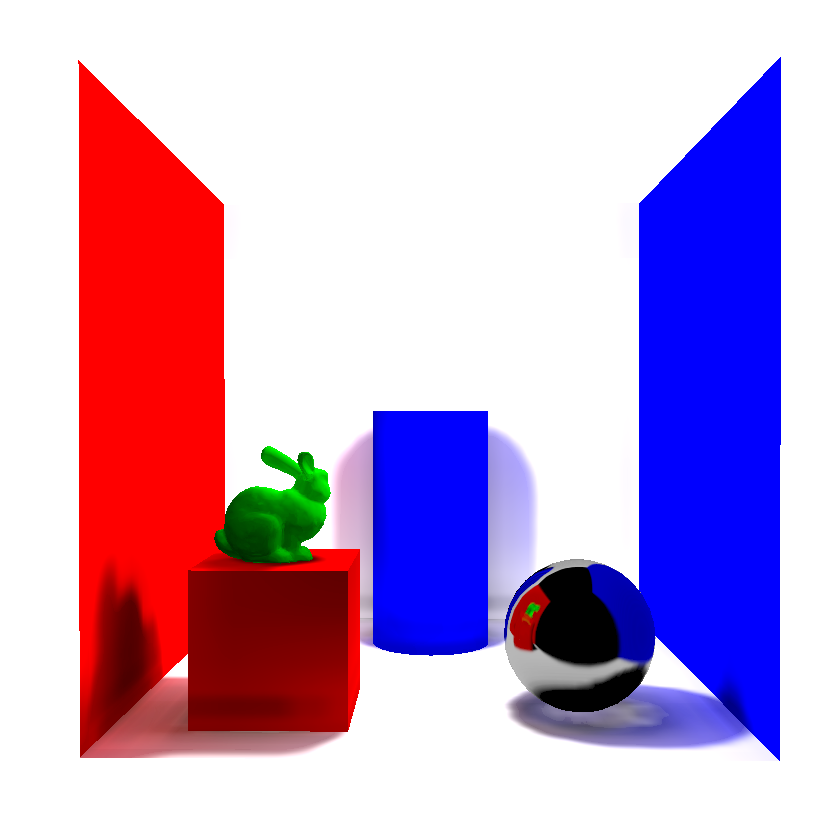
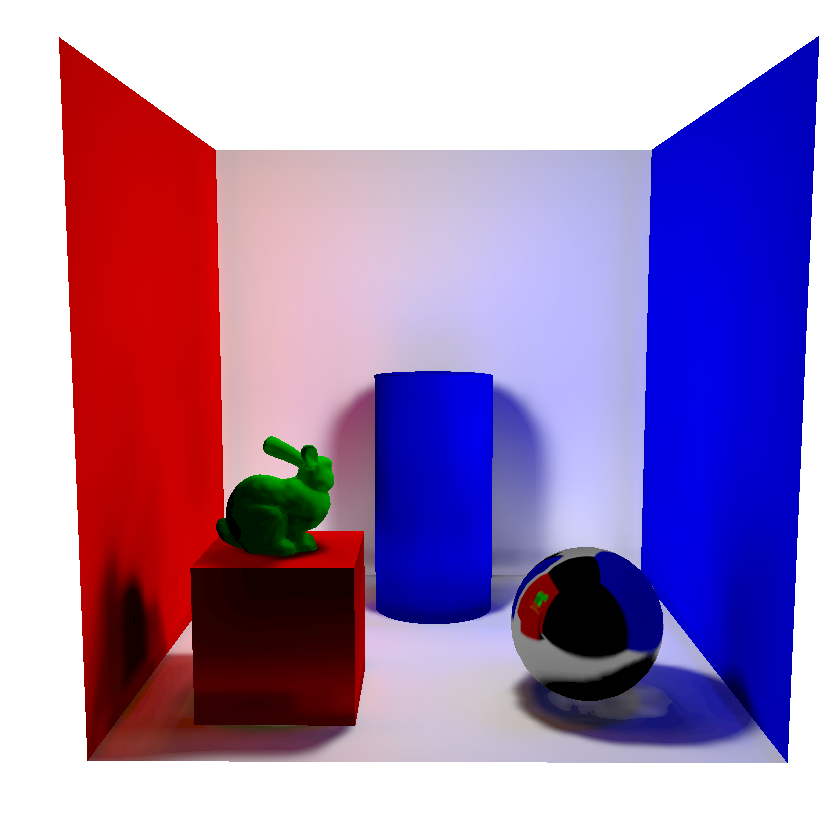
Add light intensity into the calculations

diff --git a/crates/core/src/octree/lighting/stages/photons_to_irradiance.rs b/crates/core/src/octree/lighting/stages/photons_to_irradiance.rs
@@ -1,12 +1,8 @@
 use c_str_macro::c_str;
 use cgmath::vec3;
-use gl::types::GLuint;
 use engine::prelude::*;
 
-use crate::{
-    config::Config,
-    octree::OctreeTextures,
-};
+use crate::config::Config;
 
 pub struct PhotonsToIrradiance {
     directional_shader: Shader,
@@ -16,33 +12,40 @@ pub struct PhotonsToIrradiance {
 impl PhotonsToIrradiance {
     pub fn init() -> Self {
         Self {
-            directional_shader: compile_compute!("assets/shaders/octree/photonsToIrradianceDirectional.comp.glsl"),
-            point_shader: compile_compute!("assets/shaders/octree/photonsToIrradiancePoint.comp.glsl"),
+            directional_shader: compile_compute!(
+                "assets/shaders/octree/photonsToIrradianceDirectional.comp.glsl"
+            ),
+            point_shader: compile_compute!(
+                "assets/shaders/octree/photonsToIrradiancePoint.comp.glsl"
+            ),
         }
     }
 }
 
-pub struct PhotonsToIrradianceInput {
+pub struct PhotonsToIrradianceInput<'a> {
     pub node_pool: BufferTexture,
     pub brick_pool_colors_last_level: Texture3D,
     pub brick_pool_photons: Texture3D,
     pub brick_pool_irradiance_last_level: Texture3D,
     pub light_view_map: Texture2D,
-    pub is_directional: bool,
+    pub light: &'a Light,
 }
 
 impl ShaderPass for PhotonsToIrradiance {
-    type Input<'a> = PhotonsToIrradianceInput;
+    type Input<'a> = PhotonsToIrradianceInput<'a>;
 
     unsafe fn run(&self, input: Self::Input<'_>) {
-        let shader = if input.is_directional { self.directional_shader } else { self.point_shader };
+        let shader = if input.light.is_directional() {
+            self.directional_shader
+        } else {
+            self.point_shader
+        };
         let config = Config::instance();
 
         shader.use_program();
-        shader
-            .set_uint(c_str!("voxelDimension"), config.voxel_dimension());
-        shader
-            .set_uint(c_str!("octreeLevel"), config.last_octree_level());
+        shader.set_uint(c_str!("voxelDimension"), config.voxel_dimension());
+        shader.set_uint(c_str!("octreeLevel"), config.last_octree_level());
+        shader.set_float(c_str!("lightIntensity"), input.light.intensity());
         gl::ActiveTexture(gl::TEXTURE0);
         gl::BindTexture(gl::TEXTURE_3D, input.brick_pool_colors_last_level);
         shader.set_int(c_str!("brickPoolColors"), 0);
@@ -50,7 +53,7 @@ impl ShaderPass for PhotonsToIrradiance {
         gl::BindTexture(gl::TEXTURE_3D, input.brick_pool_photons);
         shader.set_int(c_str!("brickPoolPhotons"), 1);
         gl::ActiveTexture(gl::TEXTURE2);
-        if input.is_directional {
+        if input.light.is_directional() {
             gl::BindTexture(gl::TEXTURE_2D, input.light_view_map);
         } else {
             gl::BindTexture(gl::TEXTURE_2D_ARRAY, input.light_view_map);
@@ -65,7 +68,7 @@ impl ShaderPass for PhotonsToIrradiance {
         helpers::bind_image_texture(1, input.node_pool.0, gl::READ_ONLY, gl::R32UI);
 
         let (viewport_width, viewport_height) = config.viewport_dimensions();
-        let local_group_size = if input.is_directional { 32 } else { 12 };
+        let local_group_size = if input.light.is_directional() { 32 } else { 12 };
         shader.dispatch_xyz(vec3(
             (viewport_width as f32 / local_group_size as f32).ceil() as u32,
             (viewport_height as f32 / local_group_size as f32).ceil() as u32,
@@ -78,8 +81,8 @@ impl ShaderPass for PhotonsToIrradiance {
 #[cfg(test)]
 mod tests {
     use super::*;
-    use std::path::PathBuf;
     use std::env;
+    use std::path::PathBuf;
 
     #[test]
     fn it_works() {

diff --git a/crates/core/src/octree/lighting/mod.rs b/crates/core/src/octree/lighting/mod.rs
@@ -1,17 +1,9 @@
-use c_str_macro::c_str;
-use cgmath::{vec3, Matrix4};
-use gl::types::GLuint;
 use engine::prelude::*;
+use gl::types::GLuint;
 
-use crate::{
-    config::Config,
-    constants::Axis,
-};
+use crate::{config::Config, constants::Axis};
 
-use super::{
-    build::{BrickPoolValues, MipmapAnisotropicPass},
-    Octree,
-};
+use super::{build::BrickPoolValues, Octree};
 
 mod stages;
 pub use stages::*;
@@ -23,9 +15,7 @@ impl Octree {
             brick_pool_irradiance: self.textures.brick_pool_irradiance,
             number_of_nodes: self.number_of_nodes(),
         };
-        self.builder
-            .clear_light
-            .run(input);
+        self.builder.clear_light.run(input);
     }
 
     pub unsafe fn inject_light(
@@ -45,22 +35,18 @@ impl Octree {
             brick_pool_photons: self.textures.brick_pool_photons,
             is_directional: light.is_directional(),
         };
-        self.builder
-            .store_photons
-            .run(store_photons_input);
+        self.builder.store_photons.run(store_photons_input);
 
         let config = Config::instance();
 
         for axis in Axis::all_axis().iter() {
-            self.builder
-                .light_transfer
-                .run(
-                    &self.textures,
-                    config.last_octree_level(),
-                    &self.geometry_data.node_data,
-                    *axis,
-                    light_view_map
-                );
+            self.builder.light_transfer.run(
+                &self.textures,
+                config.last_octree_level(),
+                &self.geometry_data.node_data,
+                *axis,
+                light_view_map,
+            );
         }
 
         self.copy_alpha_to_irradiance();
@@ -71,7 +57,7 @@ impl Octree {
             brick_pool_photons: self.textures.brick_pool_photons,
             brick_pool_irradiance_last_level: self.textures.brick_pool_irradiance[0],
             light_view_map,
-            is_directional: light.is_directional(),
+            light,
         };
         self.builder
             .photons_to_irradiance_pass
@@ -126,11 +112,7 @@ impl Octree {
         let config = Config::instance();
 
         gl::CullFace(gl::FRONT);
-        let light_map_buffers = light.take_photo(
-            objects,
-            scene_aabb,
-            config.voxel_dimension(),
-        );
+        let light_map_buffers = light.take_photo(objects, scene_aabb, config.voxel_dimension());
         gl::CullFace(gl::BACK);
 
         (

diff --git a/crates/core/src/cone_tracing/voxel_cone_trace.rs b/crates/core/src/cone_tracing/voxel_cone_trace.rs
@@ -1,7 +1,6 @@
 use std::collections::HashMap;
 
 use c_str_macro::c_str;
-use cgmath::vec3;
 use engine::prelude::*;
 use serde::{Deserialize, Serialize};
 
@@ -83,6 +82,8 @@ impl ConeTracer {
                 light.transform().position.y,
                 light.transform().position.z,
             );
+            self.shader
+                .set_float(c_str!("directionalLight.intensity"), light.intensity());
         } else {
             self.shader.set_vec3(
                 c_str!("pointLight.position"),
@@ -90,6 +91,8 @@ impl ConeTracer {
                 light.transform().position.y,
                 light.transform().position.z,
             );
+            self.shader
+                .set_float(c_str!("pointLight.intensity"), light.intensity());
         }
         self.shader.set_vec3(
             c_str!("pointLight.color"),
